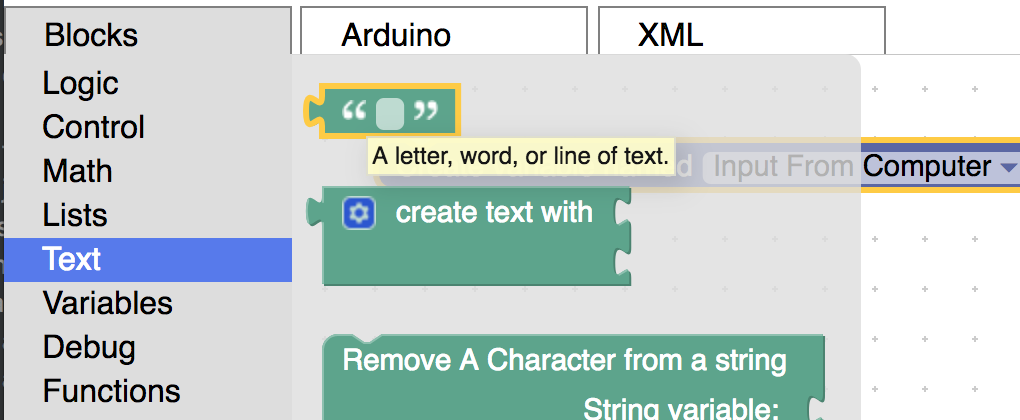
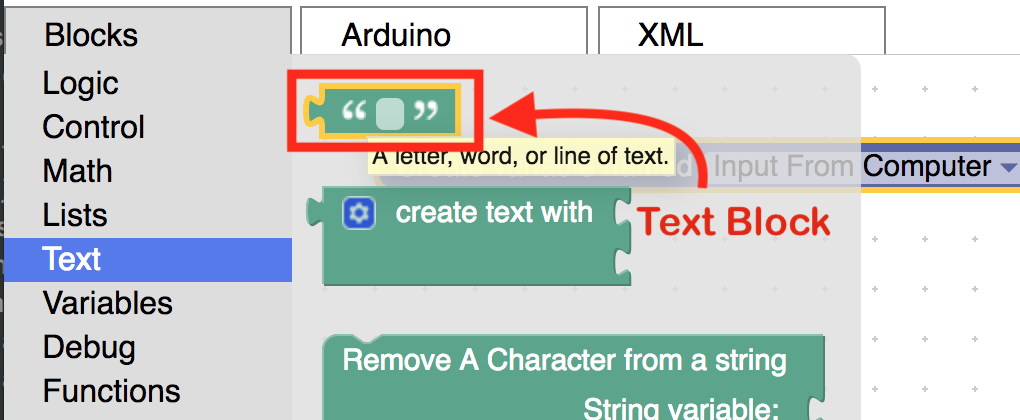
made lesson 2 more clear after discussions

Changed region(s): [[0.2735, 0.1548, 0.699, 0.4643], [0.6078, 0.4952, 0.8206, 0.5571]]

diff --git a/arduino-blockly/lesson-2-serial-monitor/index.md b/arduino-blockly/lesson-2-serial-monitor/index.md
@@ -61,7 +61,7 @@ a) Can you turn on led using the DigitalWrite block?
 
 ![Clear Blocks](/images/arduino-block/lesson-2/step9.png) 
 
-10) Open the "Variable" menu option and drag the "Create Variable Name" block to the screen.
+10) Open the "Variable" menu option and drag the "Create Variable" block to the screen.
 
 ![Variable Menu](/images/arduino-block/lesson-2/step10a.png) 
 
@@ -87,21 +87,21 @@ a) Can you turn on led using the DigitalWrite block?
 
 ![Variable Popup Box](/images/arduino-block/lesson-2/step14.png) 
 
-15) Open the "Variable" menu option and drag the "Set" block to the screen.
+15) Open the "Variable" menu option and drag the "Set Variable" block to the screen.
 
 ![Set Block](/images/arduino-block/lesson-2/step15a.png) 
 
 ![Set Block](/images/arduino-block/lesson-2/step15b.png) 
 
-16) Change the "Set" block drop-down menu to "Input From Computer".
+16) Change the "Set Variable" block drop-down menu to "Input From Computer".
 
 ![Set Change Variable Name](/images/arduino-block/lesson-2/step16.png) 
 
-17) Connect the "Set" block to the variable block.
+17) Connect the "Set Variable" block to the variable block.
 
 ![Set Change Variable Name](/images/arduino-block/lesson-2/step17.png) 
 
-18) Open the "Input/Output" menu option and drag the "Read Until Character" block to connect to the set block.
+18) Open the "Input/Output" menu option and drag the "Read Until One Character" block to connect to the set block.
 
 ![Serial Read Block](/images/arduino-block/lesson-2/step18a.png) 
 
@@ -177,11 +177,11 @@ a) Can you turn on led using the DigitalWrite block?
 
 ### Variables
 
-A variable is a way to store data in a computer program. Variables have three parts.  The name, the type of data it's going to store, and the actual data it is storing.  The name of the variable is used when you want to get the data the variable is storing.  In the code, you just wrote you created a that stores text/string data.  The value that it will be stored will be based on what you entered into the "Serial Montior"
+A variable is a way to store data in a computer program. Variables have three parts.  The name, the type of data it's going to save, and the actual data it is storing.  The name of the variable is used when you want to get the data the variable is storing.  In the code you just wrote, you created a variable that stores text/string data.  The value stored in the variable is what is entered into the "Serial Monitor".
 
 ### Create Variable Block
 
-The "create variable" block is used to create a variable.   You must rename the variable from "item" to another name as you did in step 11.  When creating a variable, you must decide the type of data you want it to store.  You can only set the data type with this block.  You also set the value that the variable will store as well.
+The "create variable" block is used to create a variable.   When you use the "create variable" block, you must rename the variable from "item" to another name, as you did in step 11.  When creating a variable, you must decide the type of data you want it to store.  You can only set the data type with this block.  You also set the value that the variable will store as well.
 
 ![Variable](/images/arduino-block/lesson-2/variable.png) 
 
@@ -199,26 +199,24 @@ Uses the variable's name to get the value that the variable is storing.   The dr
 
 ### IF Block & Compare blocks
 
-The "IF" block is used make decisions.  If what is connected to the "IF" block is true, the block inside it will execute.  In our case, we use the compare block to determine if something should execute.  Notice that the compare block has two holes.  If both blocks have the same value it and the drop-down box is set to "=" it means that the compare block will result in a "true" value.   You can set the dropdown to a lot of different comparisons For example, not true is equals sign with the slash through it.
+The "IF" block is used make decisions.  If what is connected to the "IF" block is true, the block inside it will execute.  In our case, we use the compare block to determine if something should execute.  Notice that the compare block has two holes.  If both blocks have the same value, and the drop-down box is set to "=", it means that the compare block will result in a "true" value.   You can set the dropdown to a lot of different comparisons. For example, not true is equals sign with the slash through it.
 
 ![If compare block](/images/arduino-block/lesson-2/if-compare-block.png) 
 
 
 ### Serial Monitor
 
-The Serial Monitor is a way you can send messages and receive messages with the Arduino.  The way you send a message is by typing the message into the input box and clicking the send button.  You will receive messages in the gray box below in the input box.  The Clear Window Button will clear all the data in the message box.  **Everytime you upload code to the Arduino you will have to close and reopen the serial monitor.**
+The Serial Monitor is a way you can send messages and receive messages with the Arduino.  The way you send a message is by typing the message into the input box and clicking the send button.  You will receive messages in the gray box below in the input box.  The Clear Window Button will clear all the data in the message box.  **Everytime you upload code, you will have to close and reopen the serial monitor.**
 
 ![Serial Monitor](/images/arduino-block/lesson-2/serial-monitor.png) 
 
-### Read Until String Block
+### Read Until One Character Block
 
-This block will take the data you send from the serial monitor.  It will take all the information minus the character you put into the box.  In our example, you sent "ON\|" to the Arduino, but the value of the variable is "ON".  It chopped off the "\|" character.  
-
-![Read Until String](/images/arduino-block/lesson-2/read_until_character.png) 
+This block will take the data you send from the serial monitor.  It will receive all the information minus the character you put into the "text" block.  In our example, you sent "ON\|" to the Arduino, but the value stored in the variable is "ON".  It chopped off the "\|" character.  
 
 ### Serial Print
 
-This block will send a message from your Arduino to your computer.  It will output that message in the "Serial Monitor".  The text block that you put into it will determine the message that it sends.
+This block will send a message from your Arduino to your computer.  It will output that message in the "Serial Monitor".  The "text" block that you put into it will determine the message that it sends.
 
 ![Read Until String](/images/arduino-block/lesson-2/serial-print.png) 
 
